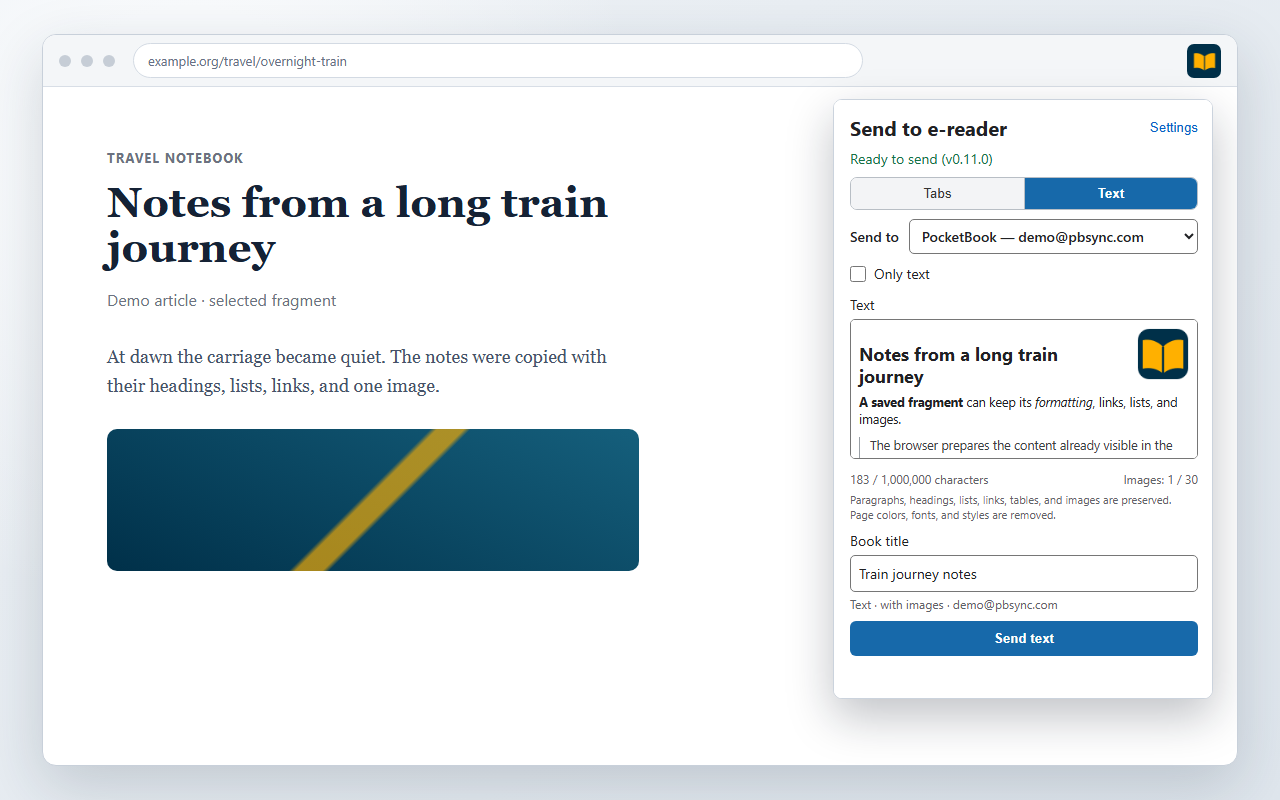
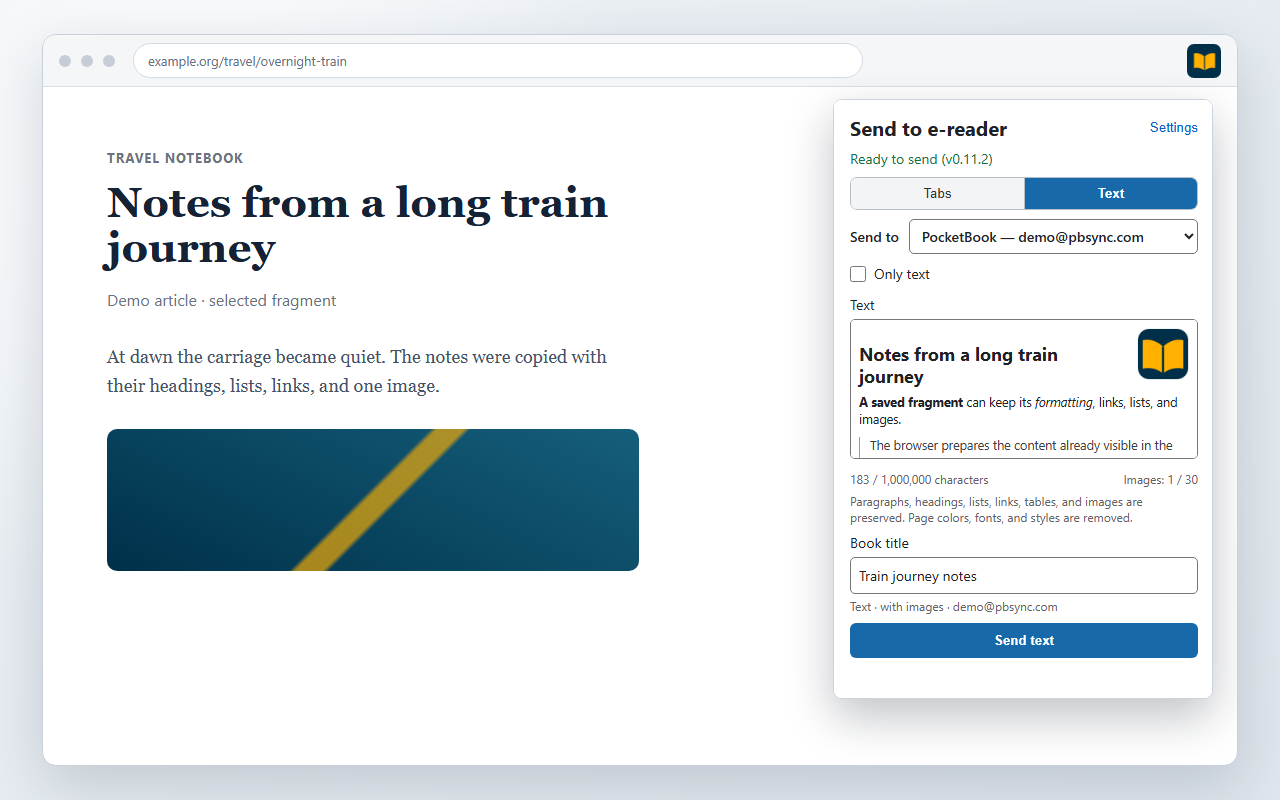
Refresh AMO screenshots for TabTome 0.11.2

Changed region(s): [[0.6562, 0.625, 0.9062, 0.8125]]

diff --git a/design/amo-screenshots/text-popup.html b/design/amo-screenshots/text-popup.html
@@ -15,7 +15,7 @@
     .rich-editor { min-height: 140px; max-height: 140px; font-size: 12.5px; }
     .rich-editor h2 { font-size: 18px; }
     .rich-editor img { float: right; width: 52px; height: 52px; margin: 0 0 8px 12px; border-radius: 9px; }
-    .hint { margin-bottom: 7px; font-size: 11px; }
+    .hint { margin-bottom: 7px; }
     .book-title { margin: 8px 0; }
   </style>
 </head>
@@ -25,7 +25,7 @@
       <h1>Send to e-reader</h1>
       <button type="button" class="link">Settings</button>
     </div>
-    <p class="status ok">Ready to send (v0.11.0)</p>
+    <p class="status ok">Ready to send (v0.11.2)</p>
     <div class="mode-switch" role="tablist" aria-label="Content to send">
       <button type="button" class="mode" role="tab" aria-selected="false">Tabs</button>
       <button type="button" class="mode active" role="tab" aria-selected="true">Text</button>
